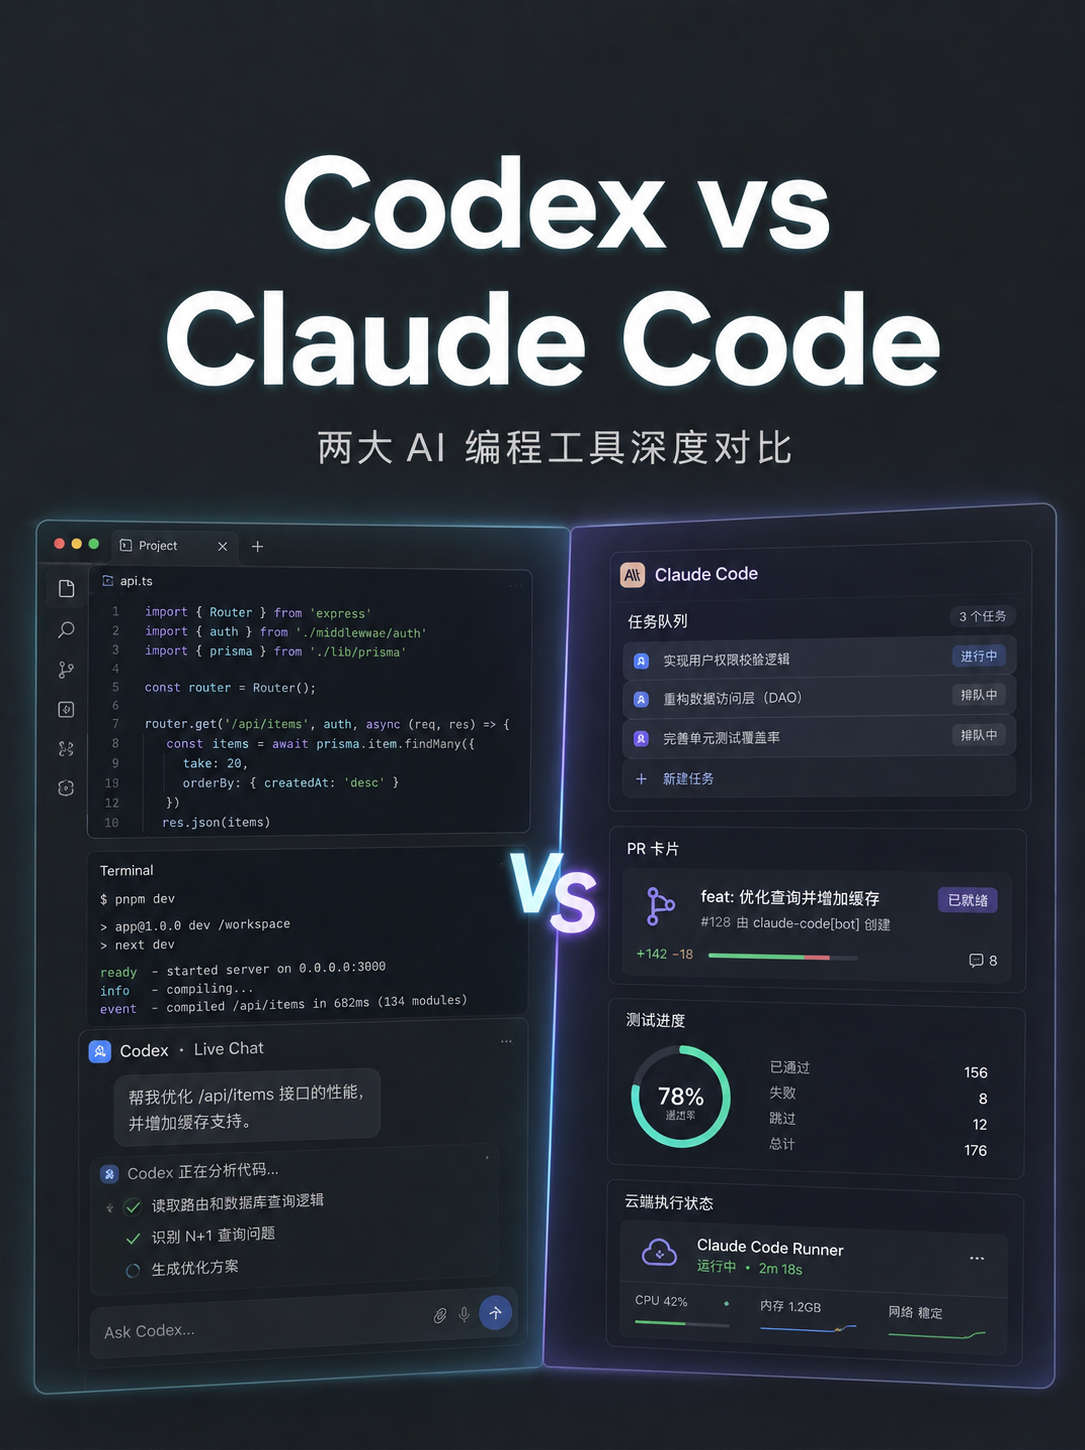
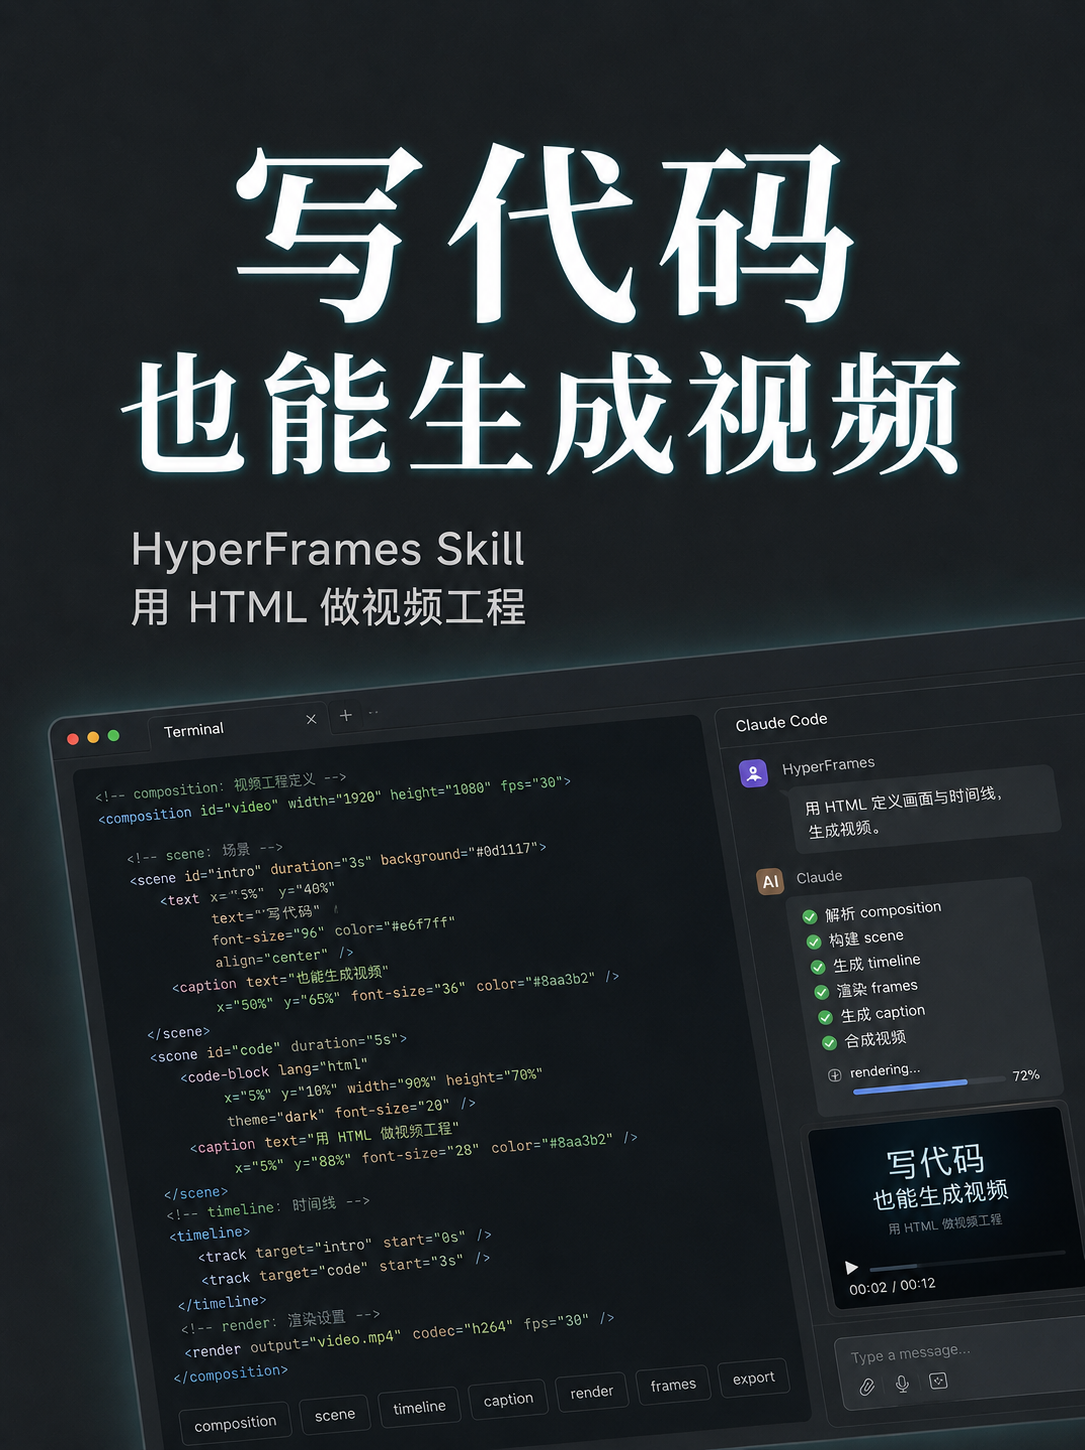
assets: 更新默认封面参考图

diff --git a/CHANGELOG.md b/CHANGELOG.md
@@ -1,5 +1,9 @@
 # Changelog
 
+## 2026/06/08
+
+- Assets: 更新内置默认封面参考图，来源为 `短视频运营/内容策划/101-Skills推荐第4期：通过写代码的方式生成视频/image/封面图.png`。
+
 ## 2026/06/03
 
 - Docs: 将图文照片默认主题从暗黑调整为明亮，并明确暗黑风格仅在用户指定时启用。
